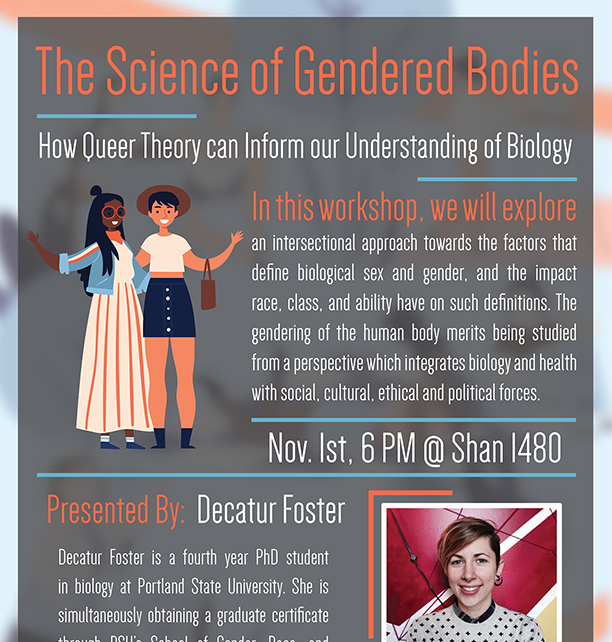
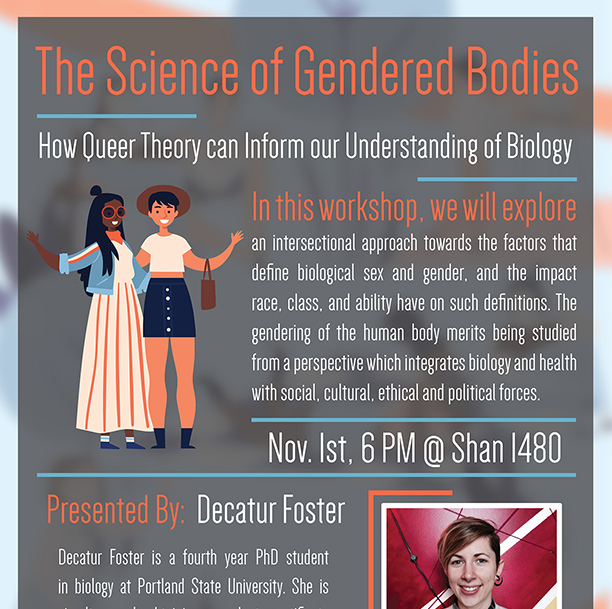
change preview photo for llc design to 72ppi img

diff --git a/src/components/Design.js b/src/components/Design.js
@@ -12,7 +12,7 @@ import info from '../assets/img/designs/info72.jpg';
 import ad from "../assets/img/designs/HackdayAd72.jpg";
 // import pres from "../assets/img/designs/FirstSlideHackday72.jpg";
 import journys from "../assets/img/designs/JOURNYS72.jpg";
-import llcgender from "../assets/img/designs/LLCGenderScience.jpg";
+import llcgender from "../assets/img/designs/LLCGenderScience72.jpg";
 
 // high quality photos for modal popup
 import llcgender1 from "../assets/img/designs/LLCGenderScience.jpg";
